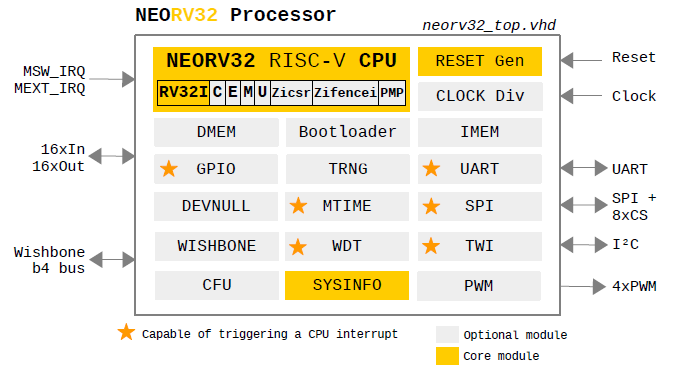
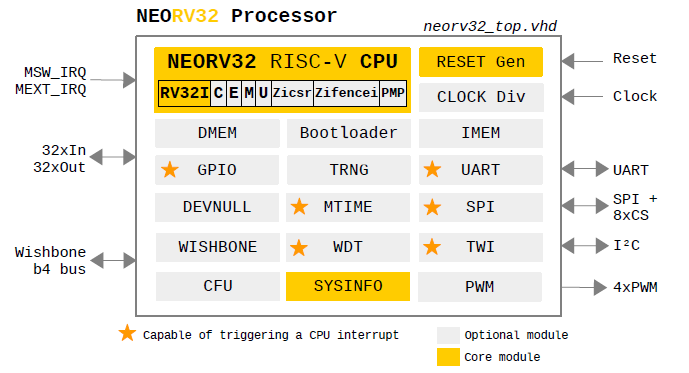
fixed GPIO labels: in and out ports are 32-bit wide

diff --git a/README.md b/README.md
@@ -132,7 +132,7 @@ is highly customizable via the processor top's generics.
 - Optional universal asynchronous receiver and transmitter (**UART**)
 - Optional 8/16/24/32-bit serial peripheral interface controller (**SPI**) with 8 dedicated chip select lines
 - Optional two wire serial interface controller (**TWI**), compatible to the I²C standard
-- Optional general purpose parallel IO port (**GPIO**), 16xOut & 16xIn, with pin-change interrupt
+- Optional general purpose parallel IO port (**GPIO**), 32xOut & 32xIn, with pin-change interrupt
 - Optional 32-bit external bus interface, Wishbone b4 compliant (**WISHBONE**)
 - Optional watchdog timer (**WDT**)
 - Optional PWM controller with 4 channels and 8-bit duty cycle resolution (**PWM**)
